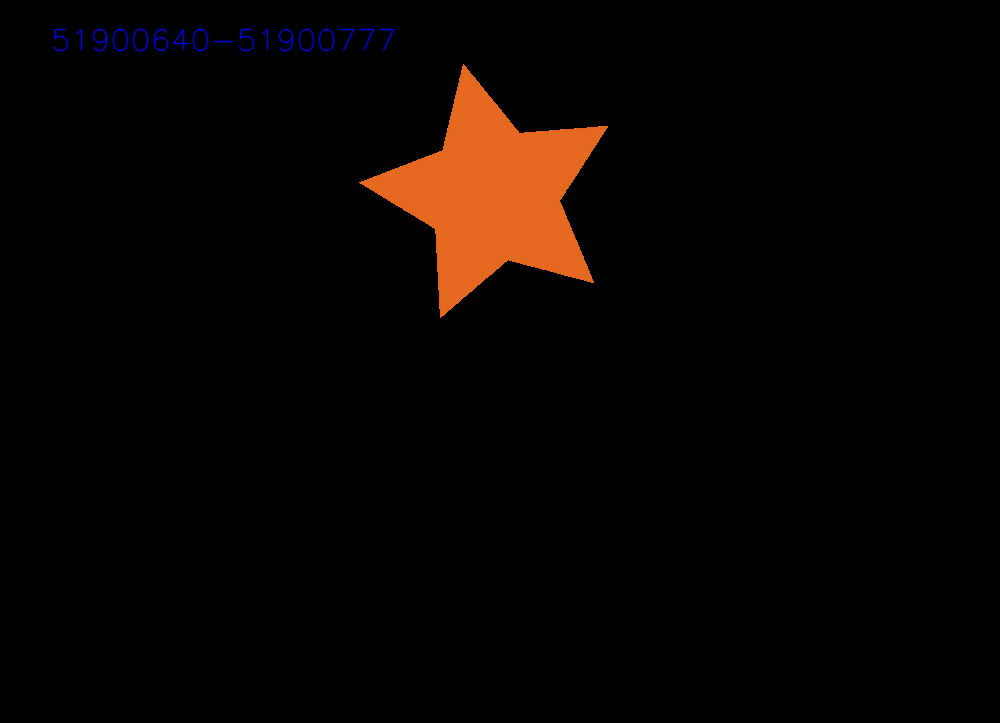
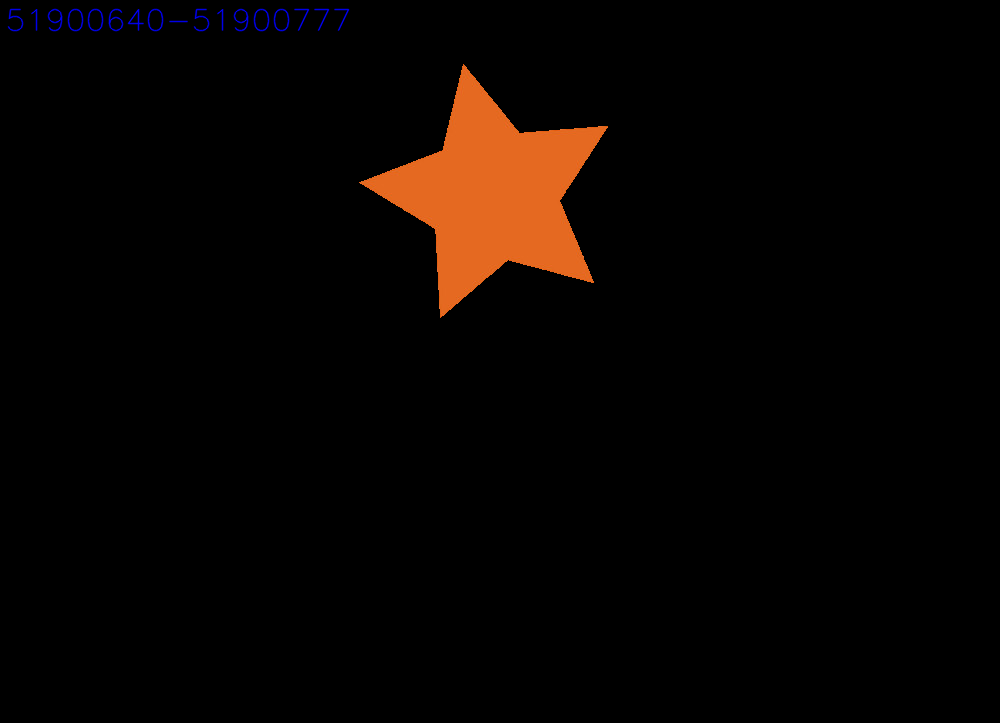
commit

Changed region(s): [[0.0, 0.0, 0.403, 0.0913]]

diff --git a/src/ex1_e.py b/src/ex1_e.py
@@ -1,0 +1,27 @@
+import cv2
+import insert
+
+imagePath = r"./src/image.png"
+
+
+
+def toBinaryImg():
+  image = cv2.imread(imagePath)
+  gray = cv2.cvtColor(image, cv2.COLOR_BGR2GRAY)
+ 
+	
+  (thresh, blackAndWhiteImage) = cv2.threshold(gray, 0, 255, cv2.THRESH_BINARY | cv2.THRESH_OTSU)
+
+  # result= cv2.bitwise_and(gray, gray, mask=binary)
+  return blackAndWhiteImage
+  
+img = toBinaryImg()
+
+insert.insertID(img,"51900640-51900777")
+filename = "./output/ex1_e/"+"image"+".png"
+cv2.imwrite(filename,img)
+
+#show image
+cv2.imshow("img", img)
+cv2.waitKey(0)
+cv2.destroyAllWindows()

diff --git a/src/test.py b/src/test.py
@@ -1,0 +1,23 @@
+import cv2 as cv
+import numpy as np
+
+def nothing(x):pass
+
+cap = cv.VideoCapture(0)
+cv.namedWindow('videoUI', cv.WINDOW_NORMAL)
+cv.createTrackbar('T','videoUI',0,255,nothing)
+
+while(True):
+    img = cv.imread("src/image.png")
+    gray = cv.cvtColor(img, cv.COLOR_BGR2GRAY)
+    ret, frame = cap.read()
+    thresh = cv.getTrackbarPos('T','videoUI');
+    vid_bw = cv.threshold(gray, thresh, 255, cv.THRESH_BINARY)[1]
+
+    cv.imshow('videoUI',cv.flip(vid_bw,1))
+
+    if cv.waitKey(1) & 0xFF == ord('q'):
+        break
+
+cap.release()
+cv.destroyAllWindows()

diff --git a/src/ex1_d.py b/src/ex1_d.py
@@ -1,0 +1,25 @@
+import cv2
+import insert
+imagePath = r"./src/image.png"
+
+
+
+def toBinaryImg():
+  image = cv2.imread(imagePath)
+  gray = cv2.cvtColor(image, cv2.COLOR_BGR2GRAY)
+  # Set threshold and maximum value
+  thresh = 220
+  maxValue = 255
+
+  # Binary Threshold
+  th, binary = cv2.threshold(gray, thresh, maxValue, cv2.THRESH_BINARY_INV)
+
+  result= cv2.bitwise_and(gray, gray, mask=binary)
+  return result
+  
+img = toBinaryImg()
+
+insert.insertID(img,"51900640-51900777")
+filename = "./output/ex1_d/"+"image"+".png"
+cv2.imwrite(filename,img)
+

diff --git a/src/ex1_c.py b/src/ex1_c.py
@@ -25,7 +25,7 @@ for color_name, lower1, upper1, lower2, upper2 in color_list:
     img[full_mask>0]=(0,255,0)
     result= cv2.bitwise_and(img, img, mask=full_mask)
 
-insert.insertID(result,"51900640-51900777")
+insert.insertID(img,"51900640-51900777")
 filename = "./output/ex1_c/"+"image"+".png"
 cv2.imwrite(filename,img)
 

diff --git a/src/insert.py b/src/insert.py
@@ -8,7 +8,7 @@ def insertID(image,ID):
     font = cv2.FONT_HERSHEY_SIMPLEX
     
     # org
-    org = (50,50)
+    org = (5,30)
     
     # fontScale
     fontScale = 1
